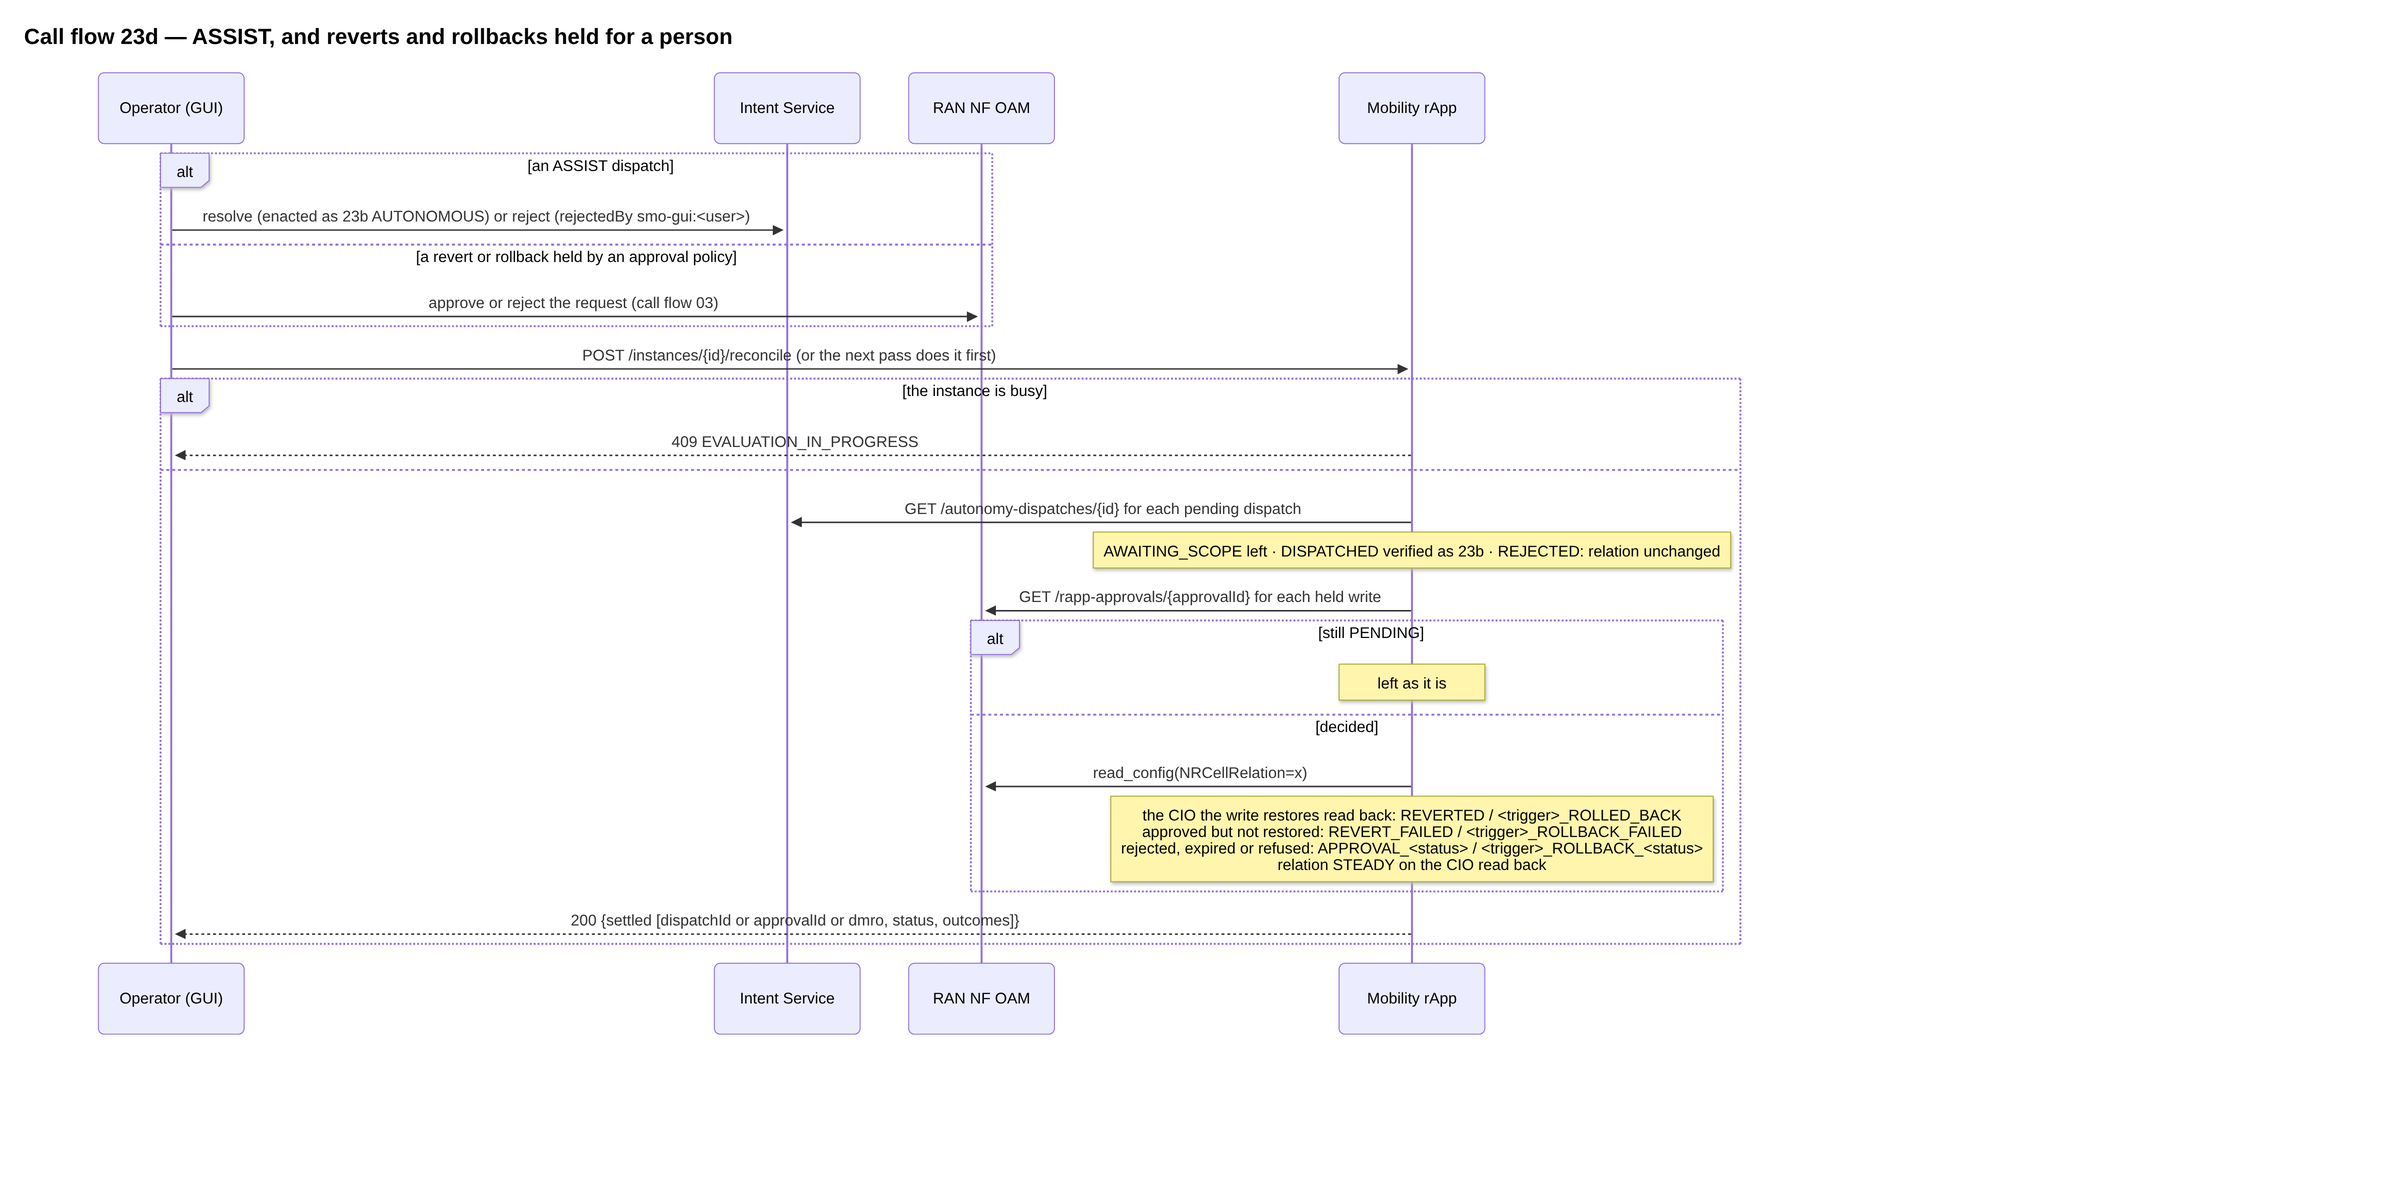
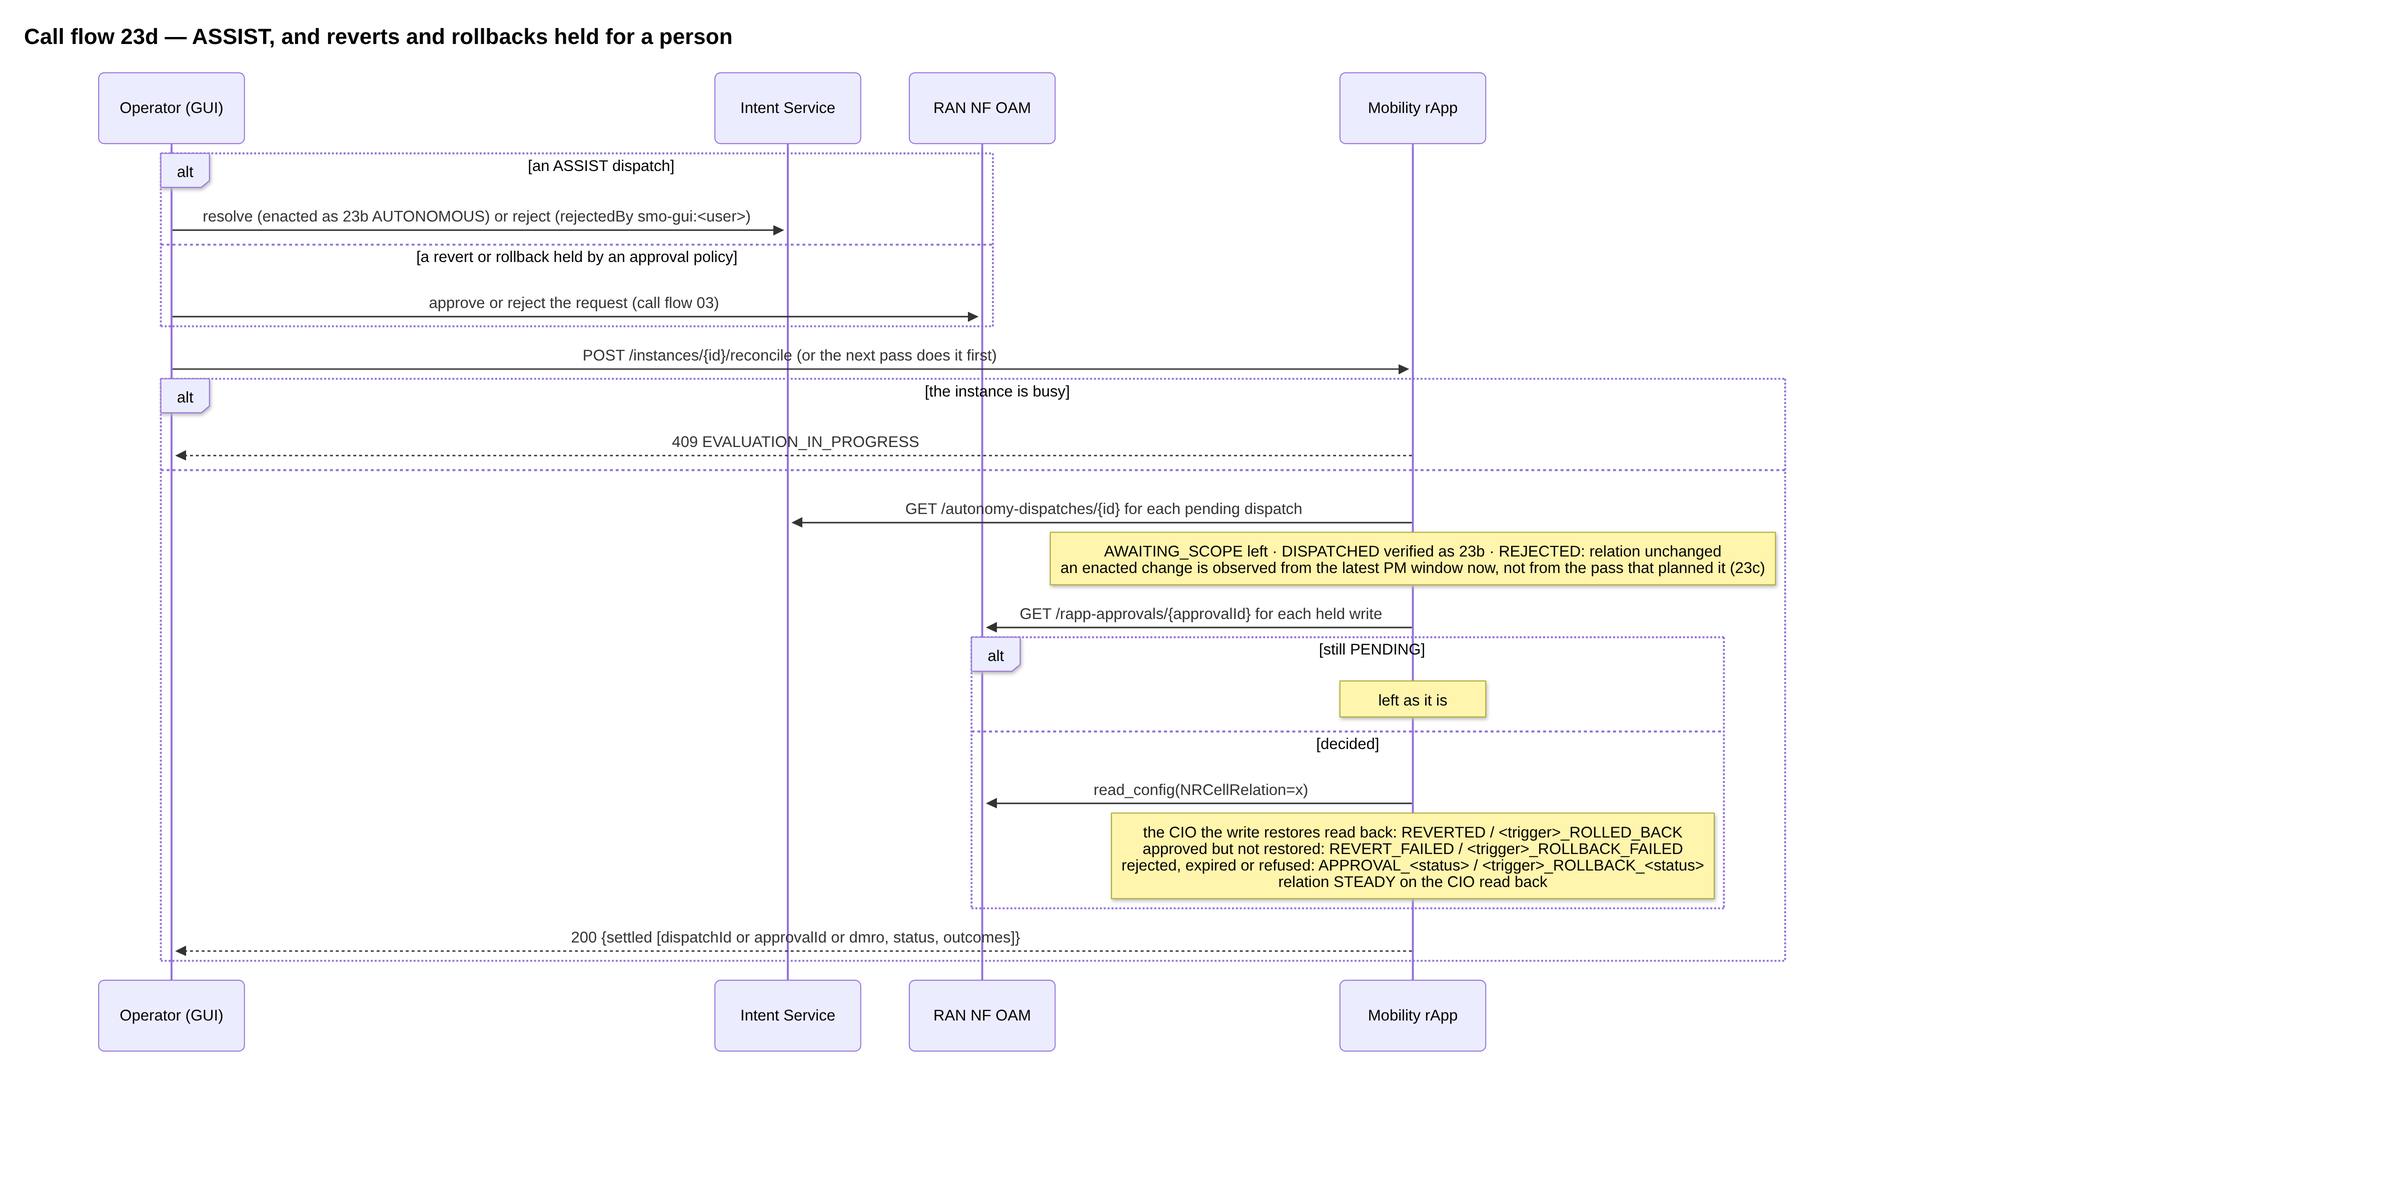
Mobility rApp: an ASSIST change's KPI hour starts at its enactment, not its plan (call flow 23c)
When reconcile finds an ASSIST dispatch enacted, the change is observed from the
latest PM window in the INFERENCE dataset at that moment instead of from the pass
that planned it, so windows measured while it waited for the operator are not
judged as its effect. A change dispatched straight away keeps the decision's
observation time.

Claude-Session: https://claude.ai/code/session_01Q99JvKMeSSktNE2dzQEuGf

diff --git a/smo/samples/mobility-optimization-rapp/app/main.py b/smo/samples/mobility-optimization-rapp/app/main.py
@@ -297,12 +297,14 @@ def _settle(row: MobilityRelation, d: MobilityDecision, now: datetime.datetime |
     d.updated_at = datetime.datetime.now(datetime.UTC)
 
 
-def _follow_dispatch(inst, rows, decisions: dict[str, MobilityDecision], dispatch: dict, execution_id: str) -> None:
+def _follow_dispatch(inst, rows, decisions: dict[str, MobilityDecision], dispatch: dict, execution_id: str,
+                     enacted_at: dict[str, datetime.datetime] | None = None) -> None:
     """Settles the relations of one AutonomyDispatch according to where it is.
 
     SHADOWED, REJECTED and AWAITING_SCOPE only record the outcome (ASSIST remembers the pending dispatch on the row); a dispatched change is
     matched to the Intent's action report, verified by an O1 read-back, and rolled back through DME when the action did not complete or the
-    read-back differs.
+    read-back differs. `enacted_at` ({relation: time}) is when `reconcile` found an ASSIST change enacted; the KPI window starts there, not at
+    the pass that planned it (call flow 23c). A pass that dispatches straight away gives None: the window starts at the decision's observation.
     """
     intent = {"dispatchId": dispatch["dispatchId"], "autonomyMode": dispatch["autonomyMode"], "status": dispatch["status"],
               "intentId": dispatch.get("intentId"), "rejectedBy": dispatch.get("rejectedBy")}
@@ -339,7 +341,7 @@ def _follow_dispatch(inst, rows, decisions: dict[str, MobilityDecision], dispatc
             d.final_state = {"state": row.state, "cio": row.current_cio}
             d.updated_at = datetime.datetime.now(datetime.UTC)
             continue
-        _settle(row, d, None, ok, rollback)
+        _settle(row, d, (enacted_at or {}).get(rel), ok, rollback)
 
 
 def _settle_approvals(db: Session, inst: MobilityInstance, rows: dict[str, MobilityRelation]) -> list[dict]:
@@ -425,6 +427,12 @@ def _settle_dmro(inst: MobilityInstance) -> dict | None:
     return inst.dmro_status
 
 
+def _latest_samples(inst: MobilityInstance) -> dict[str, datetime.datetime]:
+    """{relation: time of its latest PM window in the INFERENCE dataset}: when `reconcile` finds an ASSIST change enacted, the KPI window starts after
+    what was already measured, so windows from before the operator approved it are not counted as its effect (call flow 23c)."""
+    return {rel: as_utc(series[-1][0]) for rel, series in by_relation(_dataset(inst, "INFERENCE")).items() if series}
+
+
 def _reconcile(db: Session, inst: MobilityInstance) -> list[dict]:
     """Settles ASSIST dispatches the operator has since resolved or rejected (call flow 23d), the reverts and rollbacks held for approval that were
     decided, and a DMRO write held for approval (23e).
@@ -438,6 +446,7 @@ def _reconcile(db: Session, inst: MobilityInstance) -> list[dict]:
         if row.pending_dispatch_id:
             pending.setdefault(row.pending_dispatch_id, []).append(rel)
     settled = []
+    latest: dict[str, datetime.datetime] | None = None
     for dispatch_id, rels in pending.items():
         dispatch = sdk.intent.get_autonomy_dispatch(dispatch_id)
         if dispatch["status"] == "AWAITING_SCOPE":
@@ -445,7 +454,10 @@ def _reconcile(db: Session, inst: MobilityInstance) -> list[dict]:
         decisions = {r: db.get_one(MobilityDecision, rows[r].pending_decision_id) for r in rels}
         for r in rels:
             rows[r].pending_dispatch_id = rows[r].pending_decision_id = None
-        _follow_dispatch(inst, rows, decisions, dispatch, next(iter(decisions.values())).execution_id)
+        if latest is None and dispatch["status"] == "DISPATCHED":
+            latest = _latest_samples(inst)
+        enacted_at = {r: latest[r] for r in rels if latest and r in latest}
+        _follow_dispatch(inst, rows, decisions, dispatch, next(iter(decisions.values())).execution_id, enacted_at)
         settled.append({"dispatchId": str(dispatch_id), "status": dispatch["status"],
                         "outcomes": {r: decisions[r].outcome for r in rels}})
     settled += _settle_approvals(db, inst, rows)

diff --git a/smo/samples/mobility-optimization-rapp/tests/test_schedule_dmro_and_approvals.py b/smo/samples/mobility-optimization-rapp/tests/test_schedule_dmro_and_approvals.py
@@ -298,3 +298,23 @@ def test_a_change_that_holds_up_is_still_confirmed_on_schedule(client, platform,
         assert [r["result"] for r in main.run_due_passes(db, now=datetime.datetime.now(datetime.UTC) + datetime.timedelta(hours=1))] == ["OK"]
     decisions = client.get(f"/instances/{instance_id}/decisions").json()["items"]
     assert any(d["outcome"] == "CONFIRMED" for d in decisions)
+
+
+def test_an_assist_change_enacted_later_is_observed_from_its_enactment_not_its_plan(client, platform, r1):
+    """Call flow 23c: the KPI window of an ASSIST change starts at the latest PM window when `reconcile` finds it enacted, so a window measured
+    while it waited for the operator is not taken as its effect; with a full hour after the enactment the check runs."""
+    instance_id = _deployed(client, platform, r1, "ASSIST")
+    dispatch_id = str(uuid.uuid4())
+    platform.dispatch = {"status": "AWAITING_SCOPE", "dispatchId": dispatch_id, "autonomyMode": "ASSIST"}
+    client.post(f"/instances/{instance_id}/evaluate")                     # planned on the hour-1 window
+    platform.records["INFERENCE"] += [_record(2, LATE)]                  # an hour passes before the operator approves
+    platform.dispatch = {**_dispatched("ASSIST"), "dispatchId": dispatch_id}
+    assert client.post(f"/instances/{instance_id}/reconcile").json()["settled"][0]["outcomes"][REL] == "EXECUTED"
+    rel = client.get(f"/instances/{instance_id}/relations").json()["items"][0]
+    assert rel["lastChange"]["at"] == _record(2, LATE)["timestamp"]
+    platform.records["INFERENCE"] += [_record(2.5, WORSE)]
+    d = client.post(f"/instances/{instance_id}/evaluate").json()["decisions"][0]
+    assert (d["decision"], d["reason"]) == ("NO_CHANGE", "OBSERVING")      # half an hour after the enactment: still observing
+    platform.records["INFERENCE"] += [_record(3, WORSE)]
+    d = client.post(f"/instances/{instance_id}/evaluate").json()["decisions"][0]
+    assert (d["decision"], d["reason"]) == ("REVERT_CIO", "KPI_DEGRADED") and d["kpi"]["windows"] == 2

diff --git a/smo/CHANGELOG.md b/smo/CHANGELOG.md
@@ -16,7 +16,7 @@ Entries are written for an operator: what changed in behaviour, configuration or
 
 ### Changed
 
-- **The Mobility Optimization rApp's loop runs by itself, and changes no CIO before its DMRO bounds are verified (call flow 23, rewritten): a new `mobility-optimization-rapp-worker`.** As for the EnergySaving rApp: `evaluateEverySeconds` in an instance's configuration makes the new worker run a pass that often, so a CIO change is confirmed or reverted about an hour later without anyone pressing "Evaluate now". **Start the worker with the stack**, **re-run `scripts/db_roles.py`** (the `migrate` service does it) and, with mTLS, generate its certificate. Revision 0051 adds five nullable columns. Deploy now keeps the model when the `DMROFunction` write is refused or held, and records the outcome (`dmroStatus`); until it is `VERIFIED` the rApp holds every CIO change (`DMRO_NOT_APPLIED`). **An instance deployed before this release holds its changes until you press "Apply DMRO bounds"** (new button, `POST /instances/{id}/dmro`). Passes, reconciles and DMRO writes of one instance run one at a time (409 `EVALUATION_IN_PROGRESS`); a revert or rollback held for a person is waited for, not sent twice.
+- **The Mobility Optimization rApp's loop runs by itself, and changes no CIO before its DMRO bounds are verified (call flow 23, rewritten): a new `mobility-optimization-rapp-worker`.** As for the EnergySaving rApp: `evaluateEverySeconds` in an instance's configuration makes the new worker run a pass that often, so a CIO change is confirmed or reverted about an hour later without anyone pressing "Evaluate now". **Start the worker with the stack**, **re-run `scripts/db_roles.py`** (the `migrate` service does it) and, with mTLS, generate its certificate. Revision 0051 adds five nullable columns. Deploy now keeps the model when the `DMROFunction` write is refused or held, and records the outcome (`dmroStatus`); until it is `VERIFIED` the rApp holds every CIO change (`DMRO_NOT_APPLIED`). **An instance deployed before this release holds its changes until you press "Apply DMRO bounds"** (new button, `POST /instances/{id}/dmro`). Passes, reconciles and DMRO writes of one instance run one at a time (409 `EVALUATION_IN_PROGRESS`); a revert or rollback held for a person is waited for, not sent twice. An ASSIST change the operator approves later is observed for its hour from the PM window current when it was found enacted, not from the pass that planned it, so it is no longer judged on windows measured before it was made.
 - **The EnergySaving rApp's loop runs by itself (call flow 22, rewritten): a new `energy-saving-rapp-worker`.** A pass ran only when someone pressed "Evaluate now". Give an instance `evaluateEverySeconds` (60 to 86400) in its configuration and the new worker (the rApp's image run as `python -m smo_shared.worker`; compose service and chart module `energy-saving-rapp-worker`) runs a pass that often, as the instance; its page shows the last pass and how it went. **Start the worker with the stack** (compose does; the chart renders it); **re-run `scripts/db_roles.py`** (the `migrate` service does it), since the rApp's role now needs `periodic_run`, `notification_outbox` and `smo_event`; with mTLS, generate its certificate (`scripts/mtls_certs.py`). Revision 0050 adds four nullable columns to the rApp's tables. Also: passes, reconciles and overrides of one instance run one at a time (a second is 409 `EVALUATION_IN_PROGRESS`); and when an approval policy holds the rApp's wake, rollback or override for a person, the rApp waits for the decision (`AWAITING_APPROVAL`, settled by Reconcile) instead of sending it twice and reporting it failed.
 - **A service order writes configuration as the person who submitted it, and is saved step by step (call flow 10, rewritten).** A CONFIG step of an SO SMOS order used to send RAN NF OAM whatever `requestedBy` and `msacRole` the step carried, so an operator could write configuration through an order as someone else or with the MSAC `admin` role. `requestedBy` and `msacRole` are now fields of the order, which the console sets from the signed-in user as on the config route; a step that carries either is refused (422). The order records its submitter (`submittedBy`; revision 0049 adds the nullable column `so_smos.service_order.submitted_by`), is saved before its first step and after each one (readable while it runs; after a crash the step in flight stays `RUNNING`), can be cancelled while it runs, and has a `status` (`IN_PROGRESS`, `COMPLETED`, `FAILED`, `CANCELLED`). An AI/ML step's `COMPLETED` means AIMgF accepted the job, not that it finished. `docs/call-flows/10-so-smos-multi-step-infra-training-deploy.md` is four diagrams with PNG images.
 - **AI/ML runs time out even when nobody reads them: a new `aimgf-worker` (call flow 27, rewritten).** A training, validation, emulation or inference run past its deadline was failed only when someone read a job, so a forgotten run kept its NFO workload and its model stuck in TRAINING (or VALIDATING, EMULATING). The new worker (the AIMgF image run as `python -m smo_shared.worker`, compose service and chart module `aimgf-worker`) does it every `AIMGF_TIMEOUT_SWEEP_SECONDS` (default 60). **Start it with the stack** (compose does; the chart renders it); **re-run `scripts/db_roles.py`** (the `migrate` service does it), since AIMgF's role now needs `periodic_run`. With mTLS, generate its certificate (`scripts/mtls_certs.py`). Also: a loading request that NFO refuses part-way now releases the runtimes it already deployed (they were left running, recorded nowhere); an rApp can no longer cancel or suspend another rApp's loading request, nor post an inference report about another rApp's model (403 `MODEL_ACCESS_DENIED`). `docs/call-flows/27-ts28105-provisioning-resources.md` is five diagrams with PNG images.

diff --git a/smo/samples/mobility-optimization-rapp/README.md b/smo/samples/mobility-optimization-rapp/README.md
@@ -14,7 +14,7 @@ A Non-RT RIC rApp that classifies handover failures per neighbour relation and t
 | Operator API | served on `:8000` as `/instances/...`; the instance's base URL is registered at rApp Management (`operatorApiBase` when the instance is created) and R1 Termination reaches it at `/rapps/<instance>/operator/...`. The page the GUI draws for it is declared in `manifest.yaml` (`operatorUi`) |
 | Call flow | [23 Mobility Optimization closed loop](../../docs/call-flows/23-mobility-optimization-closed-loop.md) |
 | Demo runbook | [DEMO_RUNBOOK.md section 25](../../DEMO_RUNBOOK.md) (Demo 00-11) |
-| Unit tests | 82 passed (`tests/`, SQLite, standalone) |
+| Unit tests | 83 passed (`tests/, SQLite, standalone) |
 
 ## What it does
 
@@ -61,7 +61,7 @@ Decision logic is in `app/engine.py` (pure functions) and `app/model/MobilityMod
 |---|---|
 | `app/main.py` | FastAPI service: instance binding, lifecycle, evaluate loop (`run_pass`, `run_due_passes`), dispatch and approval follow-up, DMRO bounds, audit, dashboard |
 | `app/tasks.py` | The worker's task `evaluate-due` (every `MOBILITY_SCHEDULE_TICK_SECONDS`, default 15) |
-| `tests/test_schedule_dmro_and_approvals.py` | Call flow 23: `evaluateEverySeconds` bounds, the worker's task, due / not due / manual instances acting as themselves, a failed scheduled pass recorded, the instance lock (409, BUSY), reverts and rollbacks held for approval settled on approval, rejection and expiry, the DMRO status (held, refused, unknown) holding changes and "Apply DMRO bounds" (21 tests) |
+| `tests/test_schedule_dmro_and_approvals.py` | Call flow 23: `evaluateEverySeconds` bounds, the worker's task, due / not due / manual instances acting as themselves, a failed scheduled pass recorded, the instance lock (409, BUSY), reverts and rollbacks held for approval settled on approval, rejection and expiry, the DMRO status (held, refused, unknown) holding changes and "Apply DMRO bounds", the KPI hour of an ASSIST change starting at its enactment (22 tests) |
 | `app/engine.py` | Guards, KPI check, bounded step (no I/O) |
 | `app/model/MobilityModel.py` | Model, thresholds, MLMR artifact (JSON in a zip) |
 | `app/model/{Training,Validation,Emulation,Inference}Logic.py` | The four execution modes |
@@ -116,7 +116,7 @@ Paths are relative to the service root; through R1 Termination they sit under `/
 
 ```bash
 cd smo/samples/mobility-optimization-rapp
-PYTHONPATH=.:../../shared:../../sdk python -m pytest tests/ -q     # 82 passed
+PYTHONPATH=.:../../shared:../../sdk python -m pytest tests/ -q     # 83 passed
 ```
 
 The demo runs against a live stack, from inside the compose network (for example the `r1-termination` container). Steps are Demo 00 to 11:

diff --git a/smo/docs/call-flows/23-mobility-optimization-closed-loop.md b/smo/docs/call-flows/23-mobility-optimization-closed-loop.md
@@ -128,6 +128,8 @@ sequenceDiagram
     end
 ```
 
+The hour starts when the change was made: for AUTONOMOUS the pass that dispatched it, for ASSIST the latest PM window when reconcile found it enacted, so windows measured while it waited for the operator do not count as its effect.
+
 **Phase 1:** the check happens on the first pass after the hour; without a schedule (23f) that pass waits for someone to press "Evaluate now".
 
 ## 23d — ASSIST, and reverts and rollbacks held for a person
@@ -149,7 +151,7 @@ sequenceDiagram
         MRO-->>Op: 409 EVALUATION_IN_PROGRESS
     else
         MRO->>IS: GET /autonomy-dispatches/{id} for each pending dispatch
-        Note over MRO: AWAITING_SCOPE left · DISPATCHED verified as 23b · REJECTED: relation unchanged
+        Note over MRO: AWAITING_SCOPE left · DISPATCHED verified as 23b · REJECTED: relation unchanged<br/>an enacted change is observed from the latest PM window now, not from the pass that planned it (23c)
         MRO->>OAM: GET /rapp-approvals/{approvalId} for each held write
         alt still PENDING
             Note over MRO: left as it is
